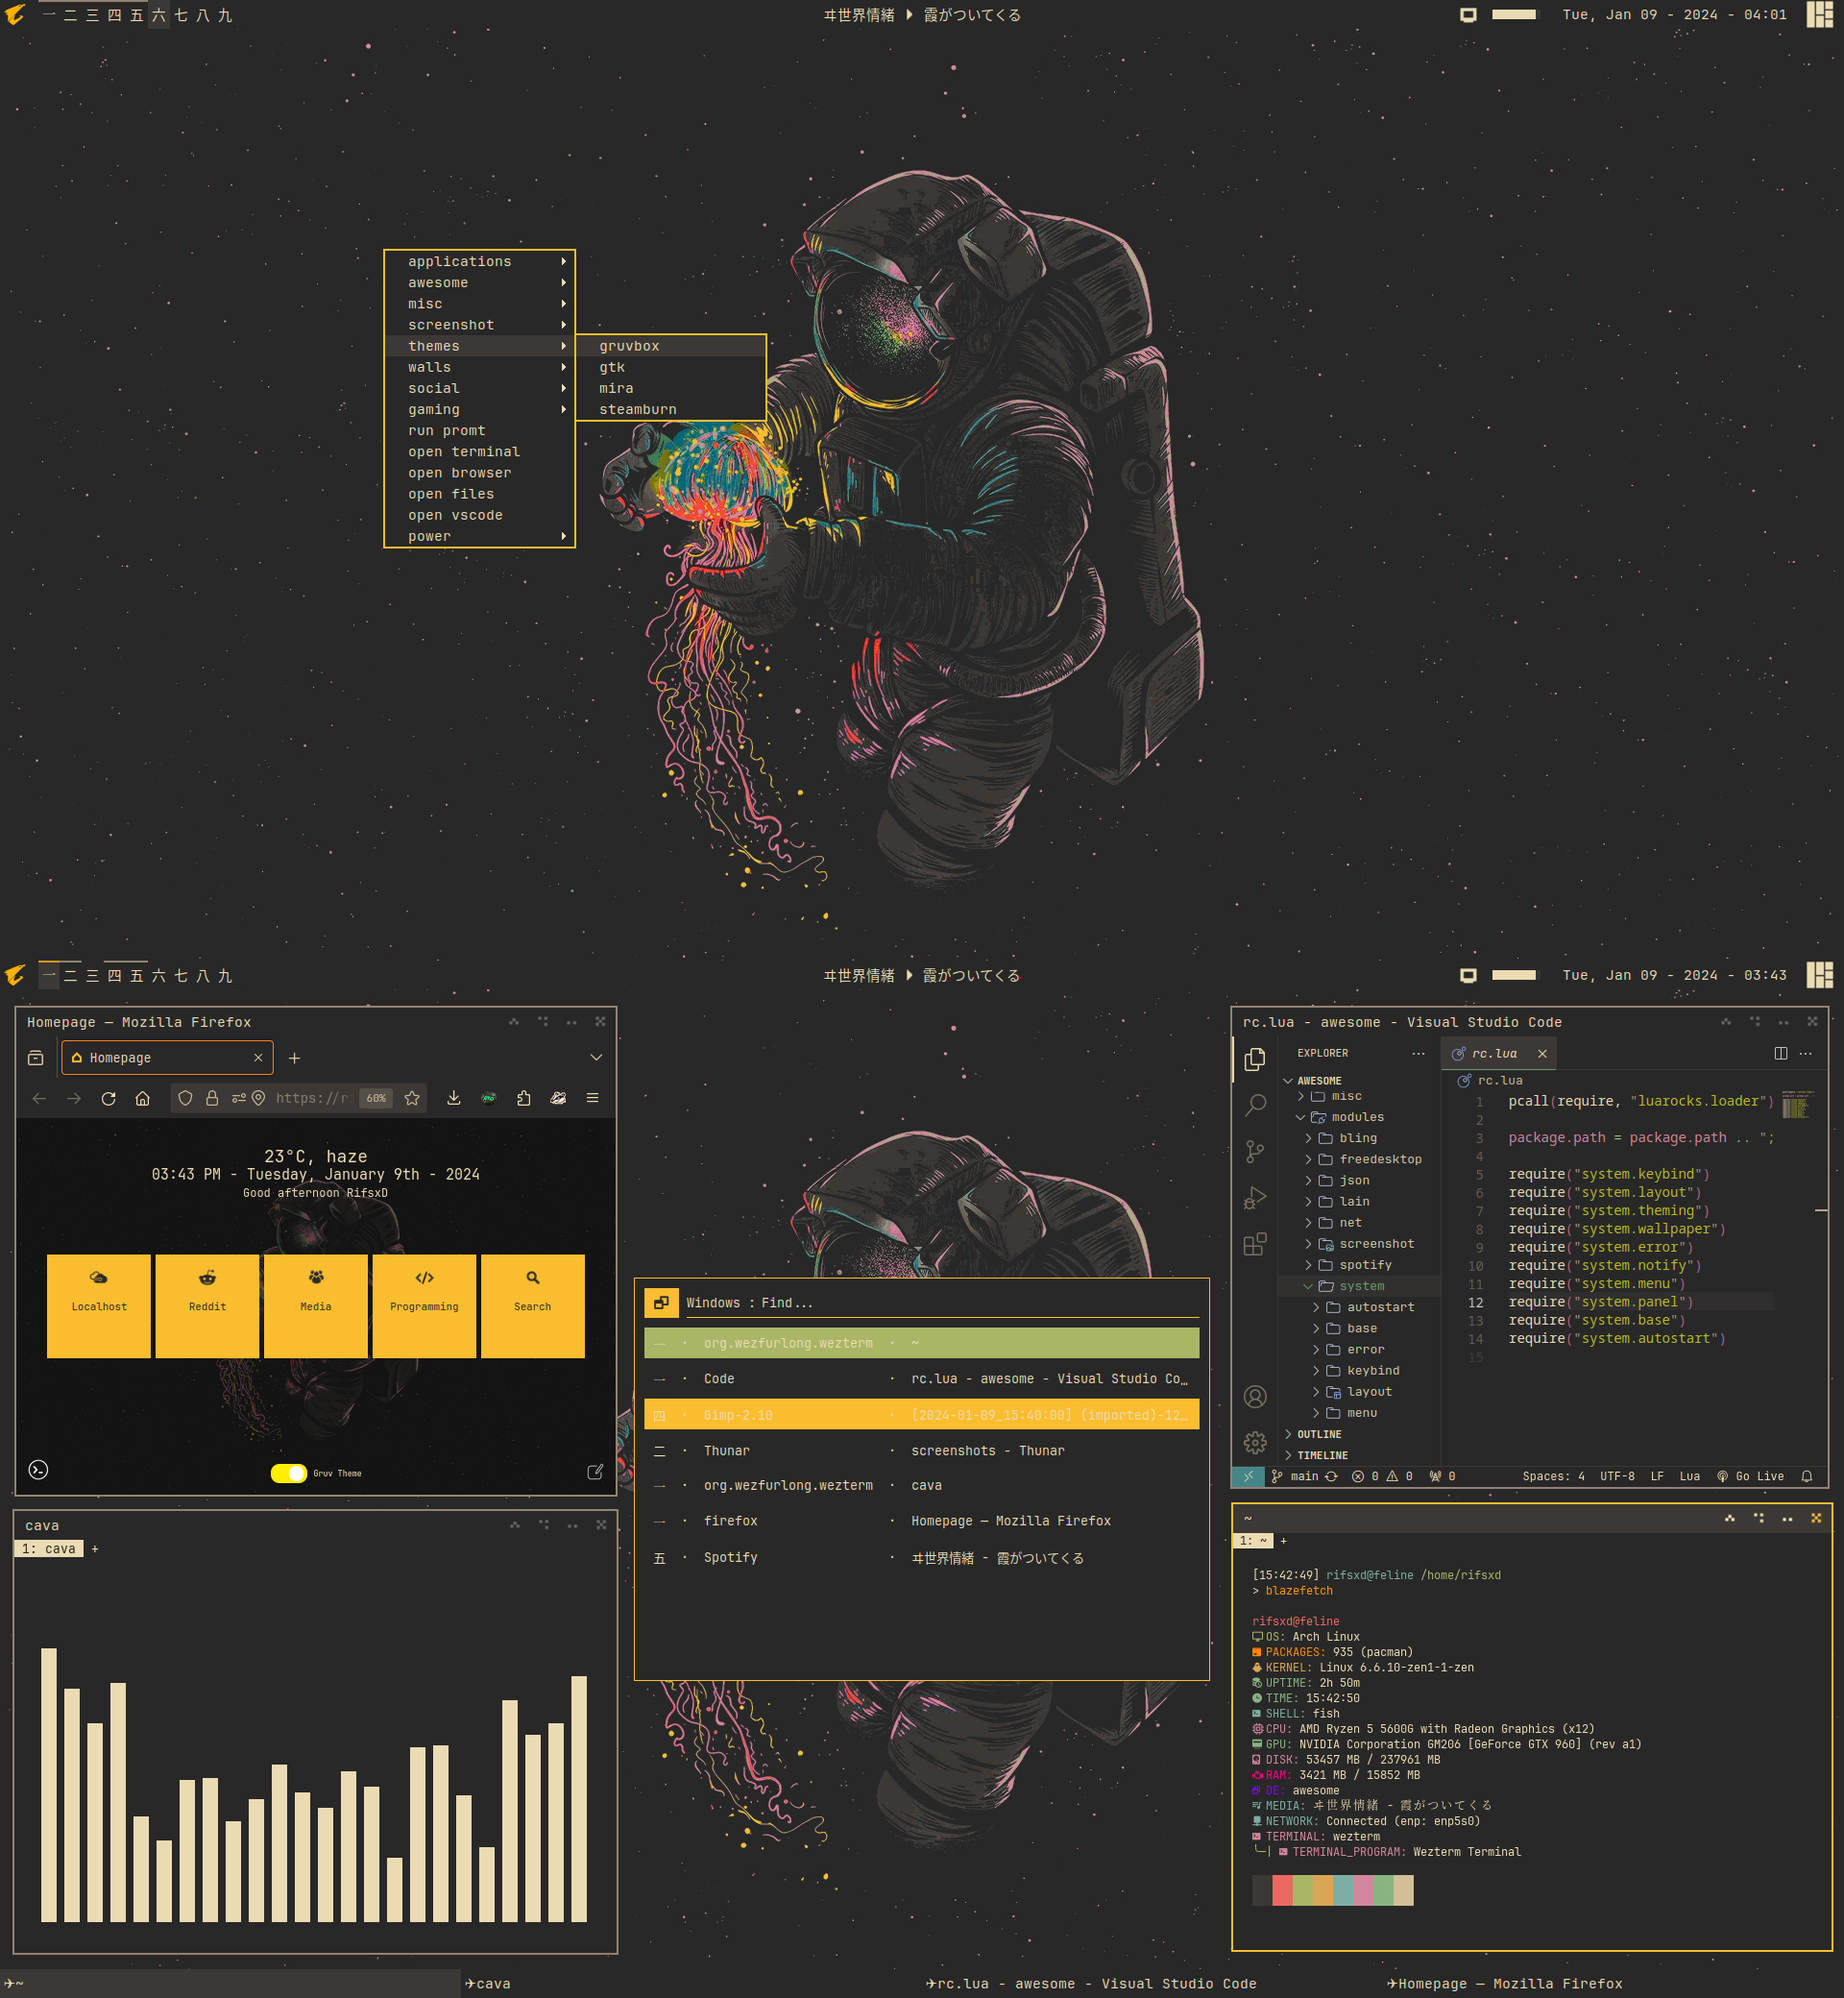
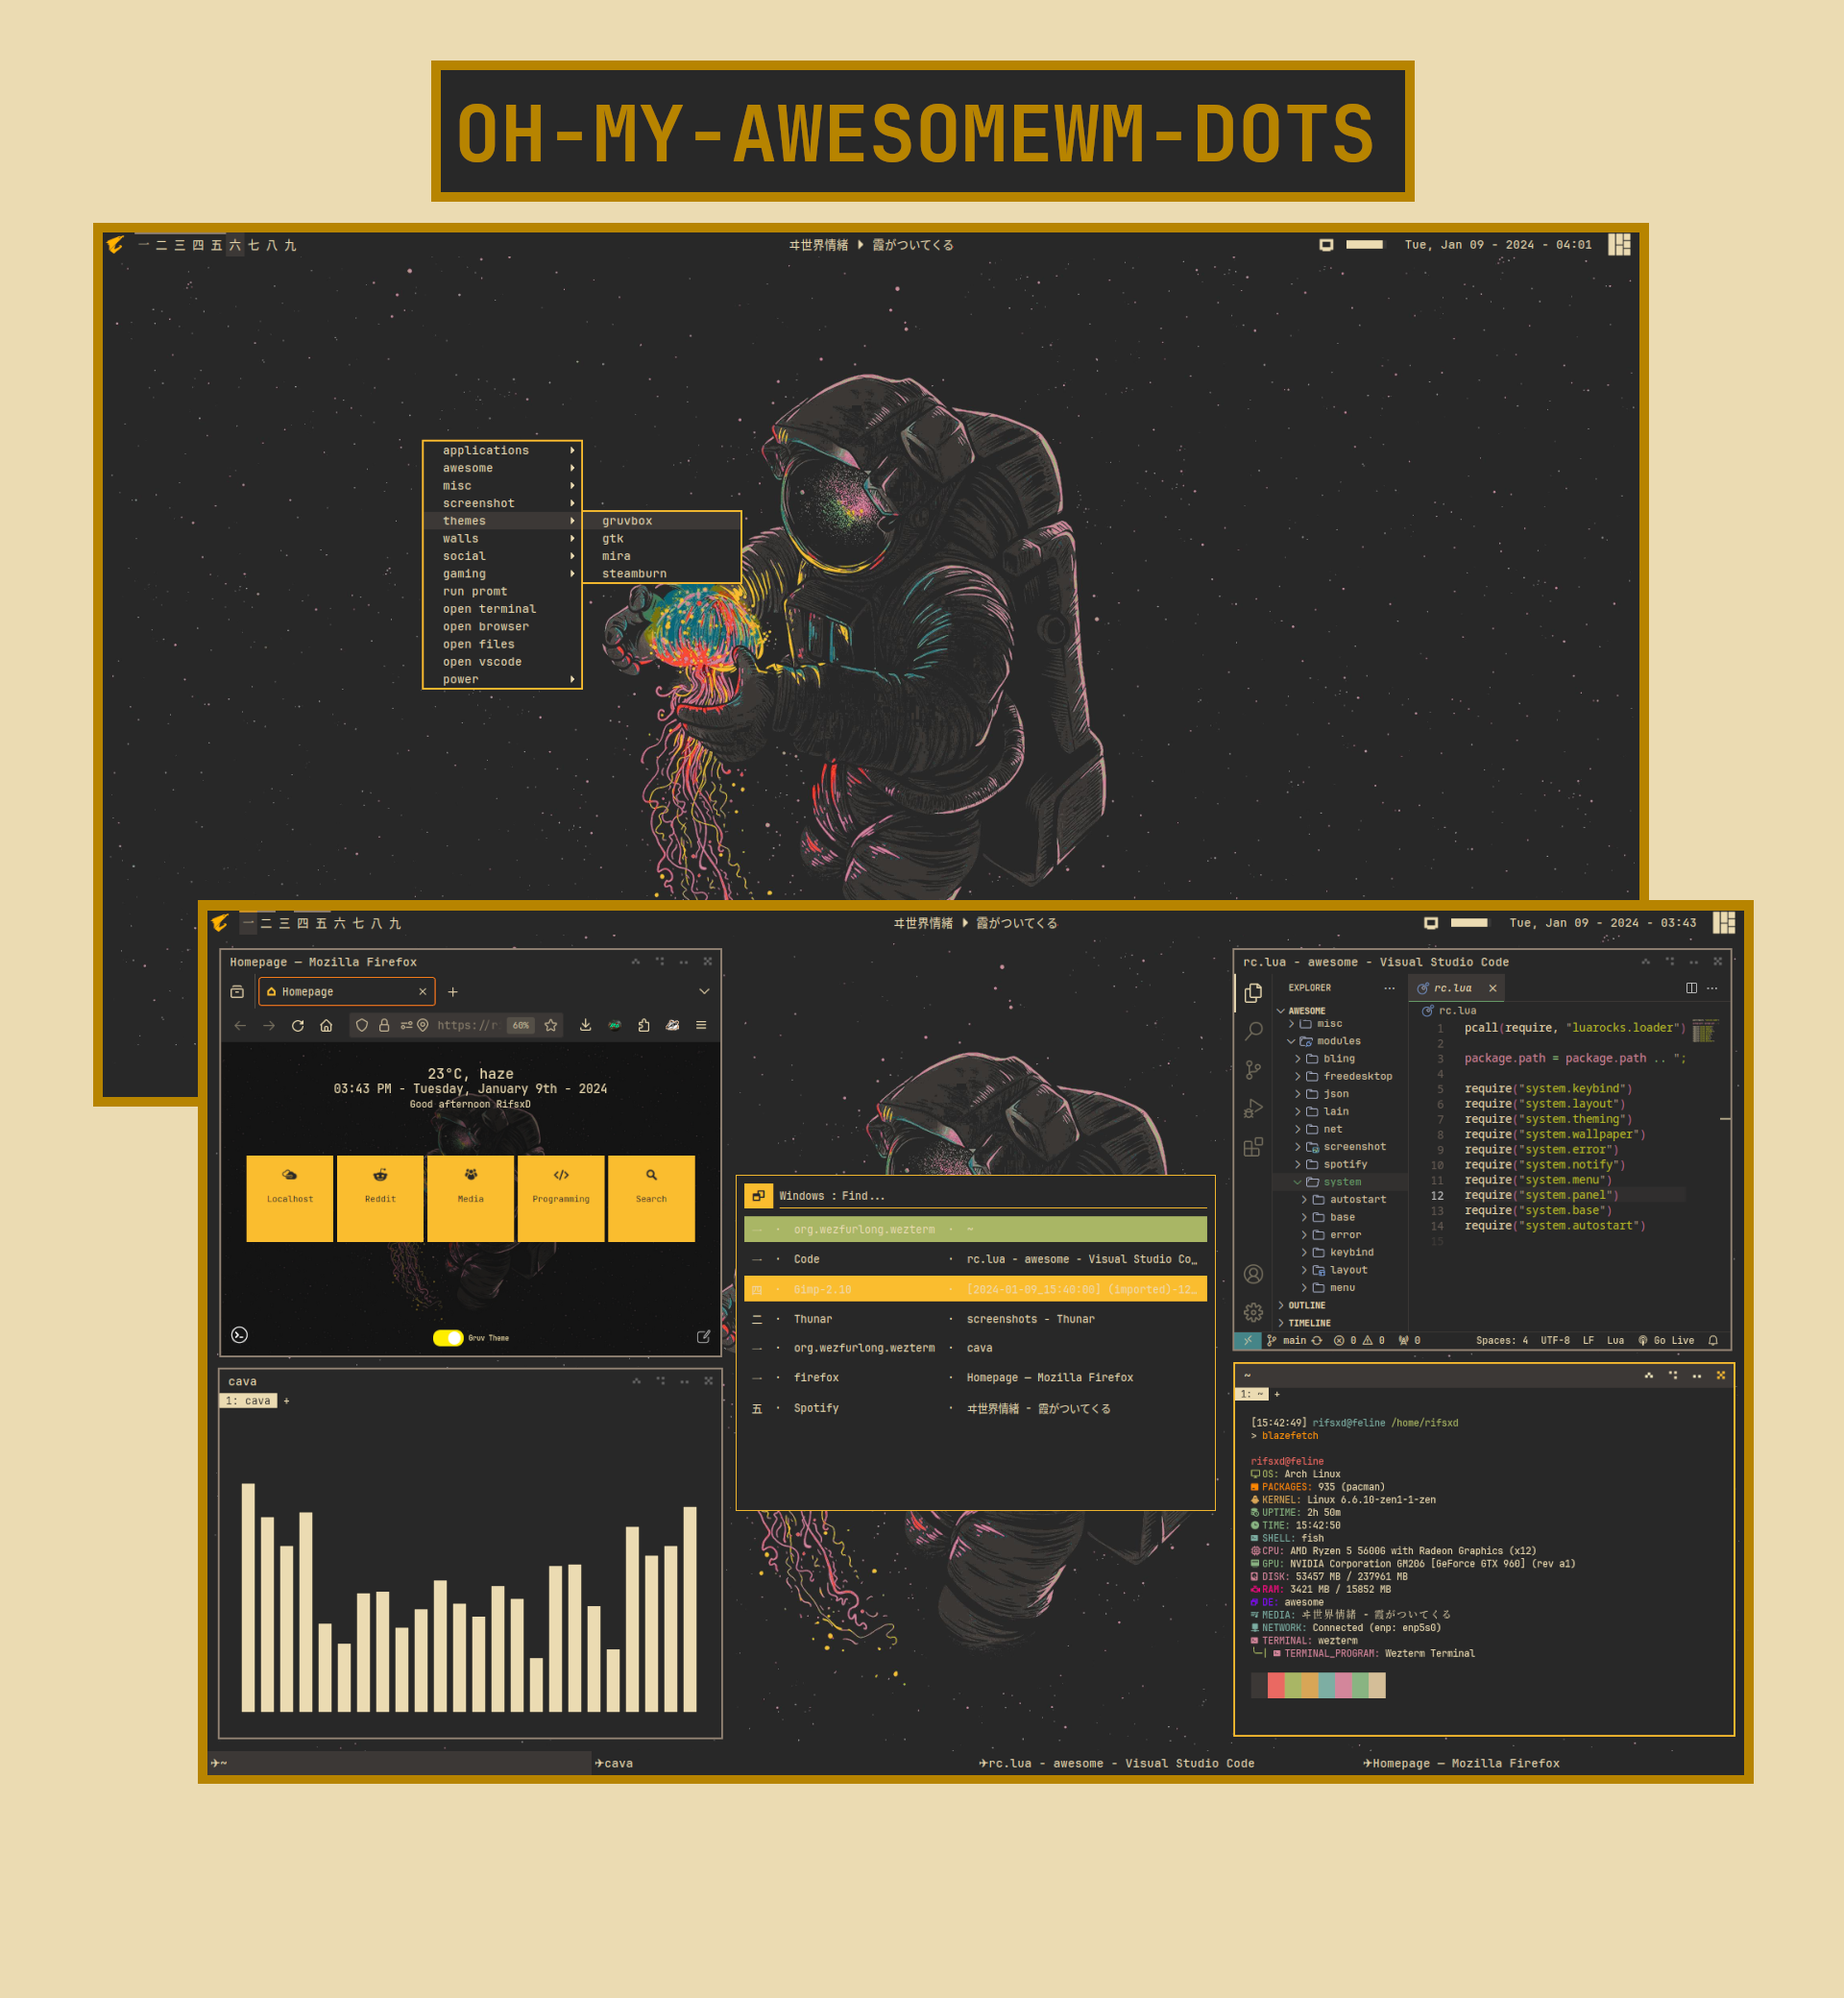
updated default preview

diff --git a/README.md b/README.md
@@ -1,8 +1,10 @@
 # oh-my-awesomewm-dots
  warm & comfy awm+widgets+themes rice
 
- * Gruvbox
- <img src="/assets/gruvbox-default.png">
+ 
+
+ * Default Theme - Gruvbox
+ <img src="/assets/default-preview.png">
  
  * Gtk
  <img src="/assets/gtk3.png">
